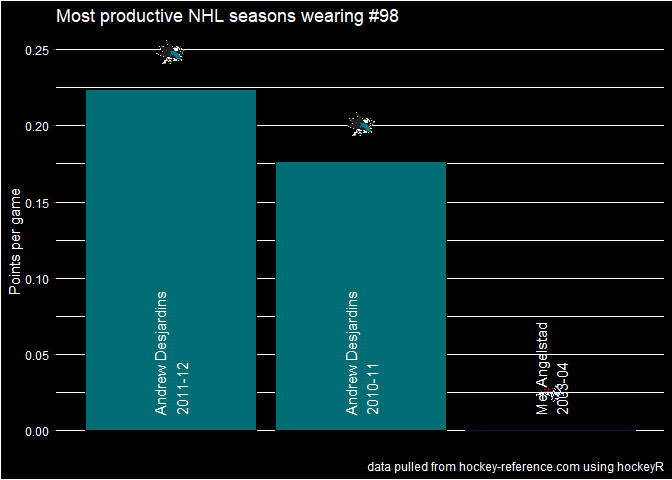
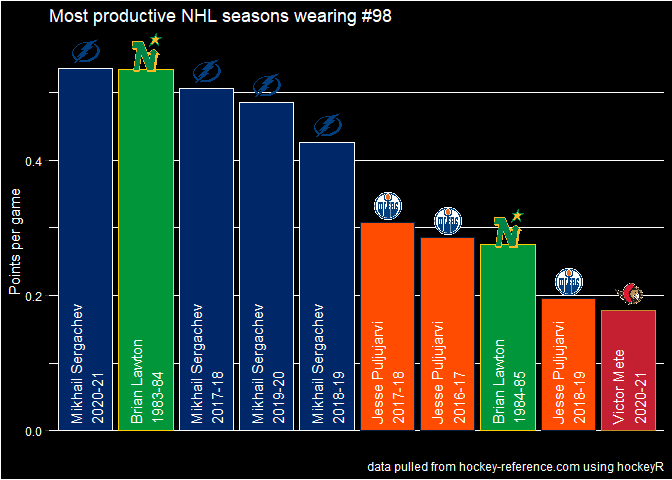
updated readme

diff --git a/README.md b/README.md
@@ -28,10 +28,10 @@ devtools::install_github("danmorse314/hockeyR")
 
 ## Usage
 
-Grab every team’s win-loss record in any season going back to 1918 with
-the `get_team_records` function
+Load the package and any others you might want:
 
 ``` r
+library(hockeyR)
 library(tidyverse)
 #> -- Attaching packages --------------------------------------- tidyverse 1.3.1 --
 #> v ggplot2 3.3.3     v purrr   0.3.4
@@ -41,42 +41,51 @@ library(tidyverse)
 #> -- Conflicts ------------------------------------------ tidyverse_conflicts() --
 #> x dplyr::filter() masks stats::filter()
 #> x dplyr::lag()    masks stats::lag()
-library(hockeyR)
-get_team_records(1924)
-#> # A tibble: 4 x 10
-#>   team_name     team_abbr season_short season overall     w     l   otl overtime
-#>   <chr>         <chr>            <dbl> <chr>  <chr>   <int> <int> <int> <chr>   
-#> 1 Hamilton Tig~ HAM               1924 1923-~ 9-15-0      9    15     0 0-0     
-#> 2 Montreal Can~ MTL               1924 1923-~ 13-11-0    13    11     0 0-0     
-#> 3 Ottawa Senat~ OTS               1924 1923-~ 16-8-0     16     8     0 0-0     
-#> 4 Toronto St. ~ TRS               1924 1923-~ 10-14-0    10    14     0 0-0     
-#> # ... with 1 more variable: st_points <dbl>
 ```
 
-You can also get stats down to the player-level with `get_player_stats`.
-This function defaults to the player’s career statistics, but you can
-enter a specific season or range of seasons as well. Note that the
-season references the year the specific season ended (ie the 2021-22
-season should be entered as 2022)
+Grab every team’s win-loss record in any season going back to 1918 with
+the `get_team_records()` function
 
 ``` r
-get_player_stats(player_name = "Wayne Gretzky", season = 1982)
+get_team_records(1967) |>
+  arrange(desc(w)) |>
+  select(team_name, team_abbr, season, overall)
+#> # A tibble: 6 x 4
+#>   team_name           team_abbr season  overall 
+#>   <chr>               <chr>     <chr>   <chr>   
+#> 1 Chicago Black Hawks CBH       1966-67 41-17-12
+#> 2 Montreal Canadiens  MTL       1966-67 32-25-13
+#> 3 Toronto Maple Leafs TOR       1966-67 32-27-11
+#> 4 New York Rangers    NYR       1966-67 30-28-12
+#> 5 Detroit Red Wings   DET       1966-67 27-39-4 
+#> 6 Boston Bruins       BOS       1966-67 17-43-10
+```
+
+You can also get stats down to the player-level with
+`get_player_stats()`. This function defaults to the player’s career
+statistics, but you can enter a specific season or range of seasons as
+well. Note that the season references the year the specific season ended
+(ie the 2021-22 season should be entered as 2022)
+
+``` r
+get_player_stats(player_name = "Wayne Gretzky", season = 1982) |>
+  select(player, age, season_full, tm, gp, g, a, pts, everything())
 #> # A tibble: 1 x 25
-#>   player  link  season_full   age tm    lg       gp     g     a   pts plus_minus
-#>   <chr>   <glu> <chr>       <int> <chr> <chr> <int> <int> <int> <int>      <int>
-#> 1 Wayne ~ http~ 1981-82        21 EDM   NHL      80    92   120   212         80
+#>   player    age season_full tm       gp     g     a   pts link  lg    plus_minus
+#>   <chr>   <int> <chr>       <chr> <int> <int> <int> <int> <glu> <chr>      <int>
+#> 1 Wayne ~    21 1981-82     EDM      80    92   120   212 http~ NHL           80
 #> # ... with 14 more variables: pim <int>, ev <int>, pp <int>, sh <int>,
 #> #   gw <int>, ev_a <int>, pp_a <int>, sh_a <int>, s <int>, s_percent <dbl>,
 #> #   toi <lgl>, atoi <lgl>, awards <chr>, season_short <int>
 ```
 
 Ever wonder who the most prolific goal-scorer was to wear a specific
-number? Use `get_jersey_players` in conjunction with `get_player_stats`
-to find out:
+number? Use `get_jersey_players()` in conjunction with
+`get_player_stats()` to find out:
 
 ``` r
 # get every player to wear the desired number
-df <- get_jersey_players(69)
+df <- get_jersey_players(98)
 
 # get their statistics from the year they wore that sweater
 df2 <- purrr::map2_dfr(
@@ -86,18 +95,22 @@ df2 <- purrr::map2_dfr(
   )
 
 # who had the most goals?
-arrange(df2, desc(g))
-#> # A tibble: 3 x 33
-#>   player  link  season_full   age tm    lg       gp     g     a   pts plus_minus
-#>   <chr>   <glu> <chr>       <int> <chr> <chr> <int> <int> <int> <int>      <int>
-#> 1 Andrew~ http~ 2011-12        25 SJS   NHL      76     4    13    17          4
-#> 2 Andrew~ http~ 2010-11        24 SJS   NHL      17     1     2     3         -1
-#> 3 Mel An~ http~ 2003-04        31 WSH   NHL       2     0     0     0          0
-#> # ... with 22 more variables: pim <int>, ev <int>, pp <int>, sh <int>,
-#> #   gw <int>, ev_a <int>, pp_a <int>, sh_a <int>, s <int>, s_percent <dbl>,
-#> #   toi <int>, atoi <chr>, awards <lgl>, season_short <int>, tsa <int>,
-#> #   fow <int>, fol <int>, fo_percent <dbl>, blk <int>, hit <int>, tk <int>,
-#> #   gv <int>
+arrange(df2, desc(g)) |>
+  select(player, tm, season_full, gp, g, a, pts)
+#> # A tibble: 11 x 7
+#>    player            tm    season_full    gp     g     a   pts
+#>    <chr>             <chr> <chr>       <int> <int> <int> <int>
+#>  1 Jesse Puljujarvi  EDM   2017-18        65    12     8    20
+#>  2 Brian Lawton      MNS   1983-84        58    10    21    31
+#>  3 Mikhail Sergachev TBL   2019-20        70    10    24    34
+#>  4 Mikhail Sergachev TBL   2017-18        79     9    31    40
+#>  5 Mikhail Sergachev TBL   2018-19        75     6    26    32
+#>  6 Brian Lawton      MNS   1984-85        40     5     6    11
+#>  7 Jesse Puljujarvi  EDM   2018-19        46     4     5     9
+#>  8 Mikhail Sergachev TBL   2020-21        56     4    26    30
+#>  9 Victor Mete       OTT   2020-21        14     1     1     2
+#> 10 Jesse Puljujarvi  EDM   2016-17        28     1     7     8
+#> 11 Victor Mete       MTL   2020-21        14     0     3     3
 ```
 
 You can use the data to make plots with actual team colors and logos as
